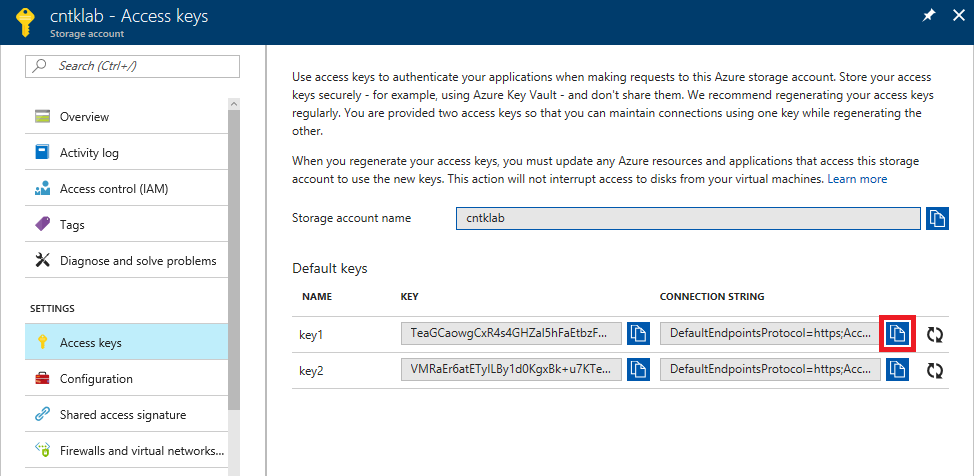
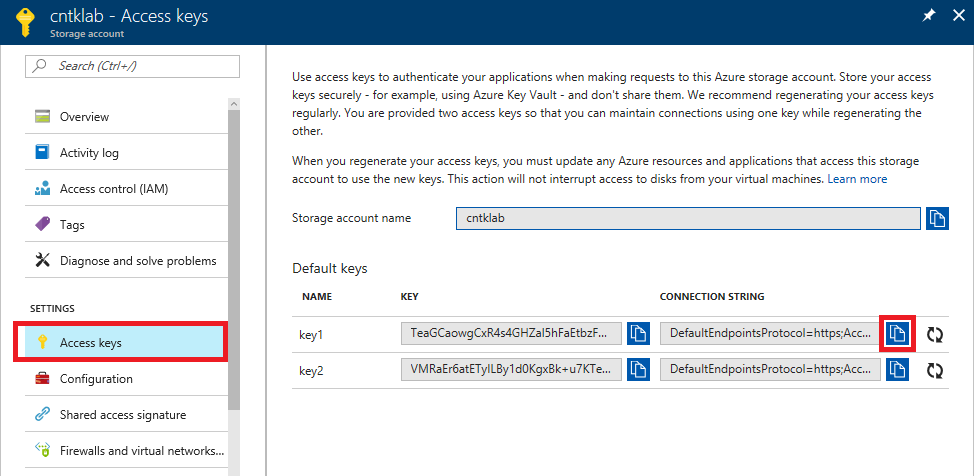
Fixed typos in 300 series

Changed region(s): [[0.0, 0.6765, 0.2464, 0.7647]]

diff --git a/300 - Neural Networks with CNTK/3 - Predict/readme.md b/300 - Neural Networks with CNTK/3 - Predict/readme.md
@@ -325,7 +325,7 @@ CNTK supports many different types of neural networks. Some are better than othe
 	trainModel('02-OneConv.cntk')
 	```
 
-1. Run **train.py** and examine the output to determine how accurately the model is able to identify hand-written digits. Is this one more or less accurate than the "One Hidden Layer" network?
+1. Run **train.py** in a Docker container and examine the output to determine how accurately the model is able to identify hand-written digits. Is this one more or less accurate than the "One Hidden Layer" network?
 
 Rather than settle on the better of these two networks, let's train a third one and see how it compares. One of the benefits of CNTK is that you can easily experiment with different network types and the parameters that characterize them simply by varying the BrainScript passed to the ```cntk``` command.
 
@@ -441,9 +441,9 @@ In this exercise, you will train and score a third neural network and compare th
 	trainModel('06-OneConvRegrMultiNode.cntk')
 	```
 
-1. Run **train.py** and examine the output to determine how accurately the model is able to identify hand-written digits. Rather than present an ```err``` value, this model will present ```rmse```, which stands for [root mean square error](https://twitter.com/ClowESPN/status/939133034636414976). A simple way to compare ```rmse``` to ```err``` is to multiply the ```rmse``` value by 100, so that 0.02, for example, becomes 2%. Based on that, is this network more or less accurate than the other networks you trained?
+1. Run **train.py** in a Docker container and examine the output to determine how accurately the model is able to identify hand-written digits. Rather than present an ```err``` value, this model will present ```rmse```, which stands for [root mean square error](https://en.wikipedia.org/wiki/Root-mean-square_deviation). A simple way to compare ```rmse``` to ```err``` is to multiply the ```rmse``` value by 100, so that 0.02, for example, becomes 2%. Based on that, is this network more or less accurate than the other networks you trained?
 
-The [resources that accompany this lab](https://topcs.blob.core.windows.net/public/300-cntk-resources-03.zip) include the three BrainScript files that you used to train neural networks, and four more that you didn't use. Feel free to train additional networks if you would like using the extra files. For a great tutorial on training various types of machine-learning models with CNTK and additional insights into BrainScript, see https://github.com/Microsoft/CNTK/wiki/Tutorial.
+The [resources that accompany this lab](https://topcs.blob.core.windows.net/public/300-cntk-resources-03.zip) include the three BrainScript files that you used to train neural networks, and four more that you didn't use. Feel free to train additional networks using the extra files. For a great tutorial on training various types of machine-learning models with CNTK and additional insights into BrainScript, see https://github.com/Microsoft/CNTK/wiki/Tutorial.
 
 <a name="Summary"></a>
 ## Summary ##

diff --git a/300 - Neural Networks with CNTK/2 - Process/readme.md b/300 - Neural Networks with CNTK/2 - Process/readme.md
@@ -51,7 +51,7 @@ In this exercise, you will install Azure Machine Learning Workbench and create a
 	docker -v
 	```
 
-	If a Docker version number is displayed, then Docker is installed. If Docker not installed, you should restart your PC after installing it.
+	If a Docker version number is displayed, then Docker is installed. If Docker is not installed, you should restart your PC after installing it.
 
 1. If Azure Machine Learning Workbench isn't installed on your computer, go to https://docs.microsoft.com/azure/machine-learning/preview/quickstart-installation and follow the instructions there to install it, create a Machine Learning Experimentation account, and sign in to Machine Learning Workbench for the first time. The experimentation account is required in order to use Azure Machine Learning Workbench.
 
@@ -111,7 +111,7 @@ The MNIST data that you uploaded to blob storage in the previous lab doesn't req
 
 	_Opening the storage account_
 
-1. Click the **Copy** button to the right of the first connection string to copy the storage account's connection string to the clipboard. This connection string allows scripts and programs to access blobs stored in the storage account, even if the blobs are private.
+1. Click **Access keys** in the menu on the left. Then click the **Copy** button to the right of the first connection string to copy the storage account's connection string to the clipboard. This connection string allows scripts and programs to access blobs stored in the storage account, even if the blobs are private.
 
 	![Copying the connection string](Images/copy-connection-string.png)
 

diff --git a/300 - Neural Networks with CNTK/4 - Visualize/readme.md b/300 - Neural Networks with CNTK/4 - Visualize/readme.md
@@ -65,7 +65,7 @@ In this exercise, you will download the files created for the "One Convolution" 
 
 1. Create an empty subdirectory named "mnist" in the project directory.
 
-1. Create a subdirectory named "public" in the project directory and add an HTML file named **index.html** containing the following statements to the "public" directory;
+1. Create a subdirectory named "public" in the project directory and add an HTML file named **index.html** containing the following statements:
 
 	```html
 	<html>
@@ -292,7 +292,7 @@ In this exercise, you will download the files created for the "One Convolution" 
 	console.log("Listening on port " + port);
 	```
 
-	This file contains the code for the Node app. It uses the popular NPM package named [express](https://www.npmjs.com/package/express) to implement a minimalist Web server. Then it listens for HTTP requests, responds to requests for static file files in the "public" directory, and implements a REST method named ```testImage``` that invokes the CNTK model to identify the digit passed in the body of the request.
+	This file contains the code for the Node app. It uses the popular NPM package named [express](https://www.npmjs.com/package/express) to implement a minimalist Web server. Then it listens for HTTP requests, responds to requests for static files in the "public" directory, and implements a REST method named ```testImage``` that invokes the CNTK model to identify the digit passed in the body of the request.
 
 1. Add a file named **package.json** containing the following statements to the project directory:
 

diff --git a/300 - Neural Networks with CNTK/1 - Ingest/readme.md b/300 - Neural Networks with CNTK/1 - Ingest/readme.md
@@ -48,7 +48,7 @@ The [Azure Portal](https://portal.azure.com) allows you to perform basic storage
 
     _Adding a storage account_
 
-1. In the ensuing blade, enter a name for the new storage account in **Name** field. The name is important, because it forms one part of the URL through which blobs created under this account can be accessed.
+1. In the ensuing blade, enter a name for the new storage account in the **Name** field. The name is important, because it forms one part of the URL through which blobs created under this account can be accessed.
 
 	> Storage account names can be 3 to 24 characters in length and can only contain numbers and lowercase letters. In addition, the name you enter must be unique within Azure; if someone else has chosen the same name, you'll be notified that the name isn't available with a red exclamation mark in the **Name** field.
 

diff --git a/400 - Image Classification with MMLSpark/1 - Ingest/readme.md b/400 - Image Classification with MMLSpark/1 - Ingest/readme.md
@@ -135,7 +135,7 @@ In [Exercise 4](#Exercise4), you will use a Python script to search the Web for 
 	docker -v
 	```
 
-	If a Docker version number is displayed, then Docker is installed. If Docker not installed, you should restart your PC after installing it.
+	If a Docker version number is displayed, then Docker is installed. If Docker is not installed, you should restart your PC after installing it.
 
 1. Create a directory on your hard disk and name it anything you want. Then add a text file named **Dockerfile** (no file-name extension) to that directory and insert the following statements:
 
